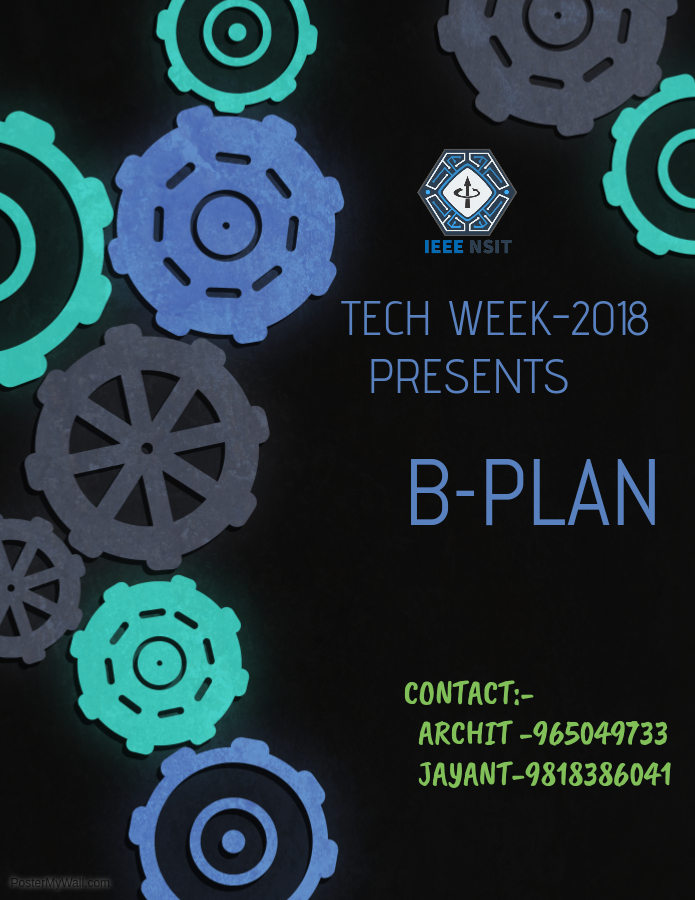
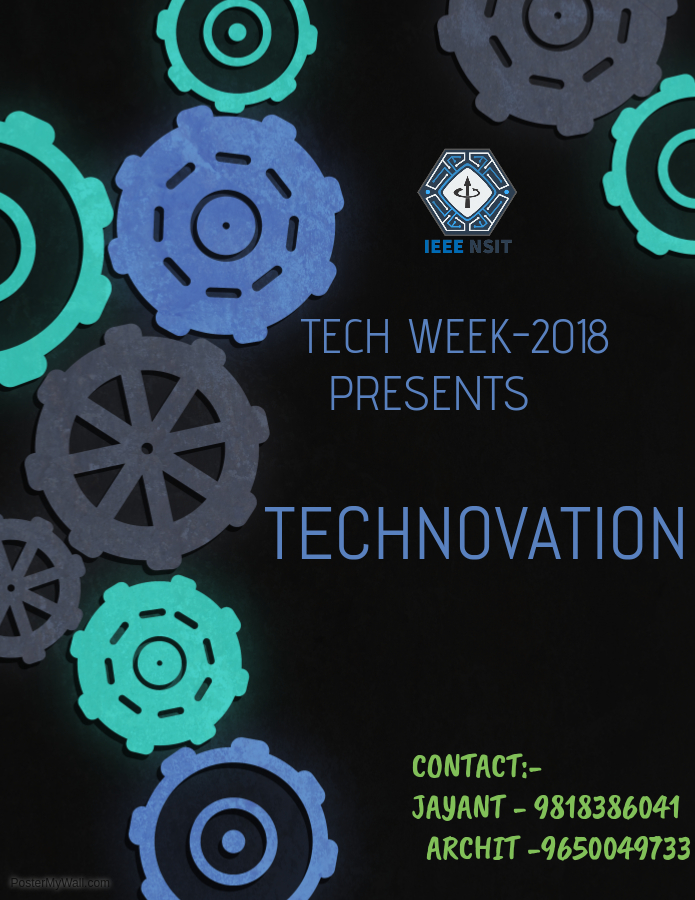
POSTER

diff --git a/bplan.html b/bplan.html
@@ -18,7 +18,7 @@
         <img src="images/bplan.jpg" class="responsive" >
     <!-- </section> -->
     <section class="about">
-        <h1>B PLAN</h1>
+        <h1>TECHNOVATION</h1>
         <hr class="under">
           <h3>   Event Description : </h3>
         <p class="info">
